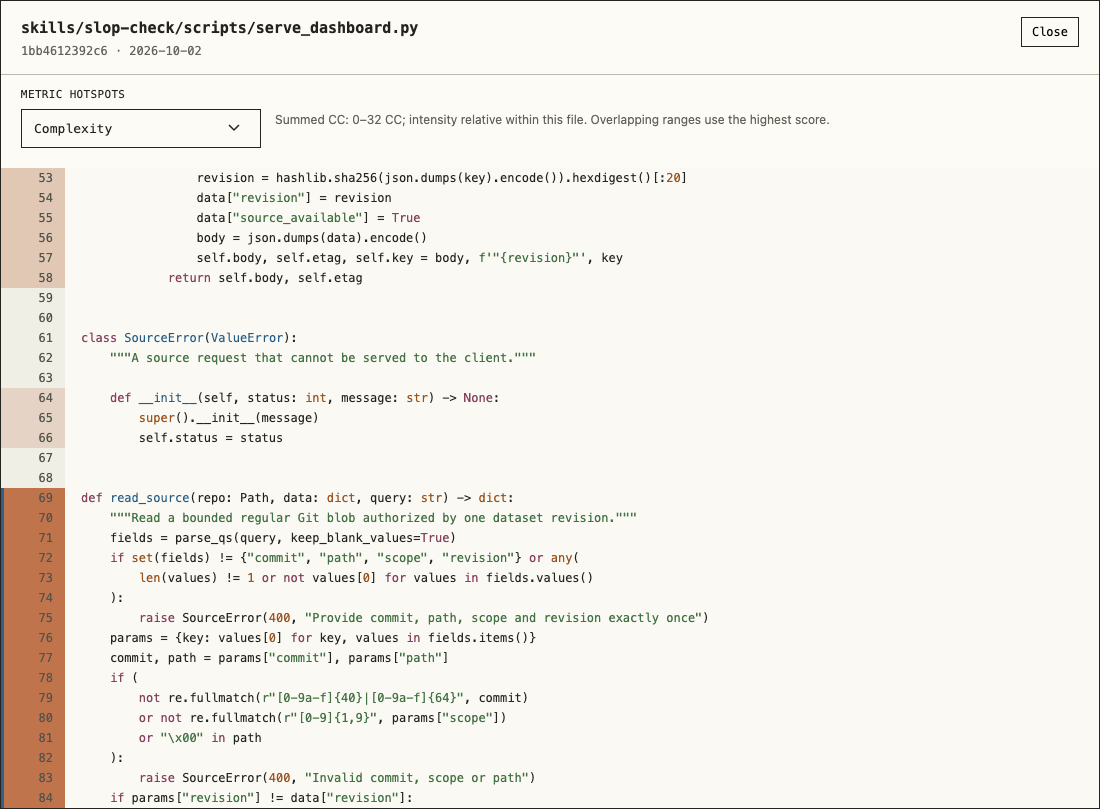
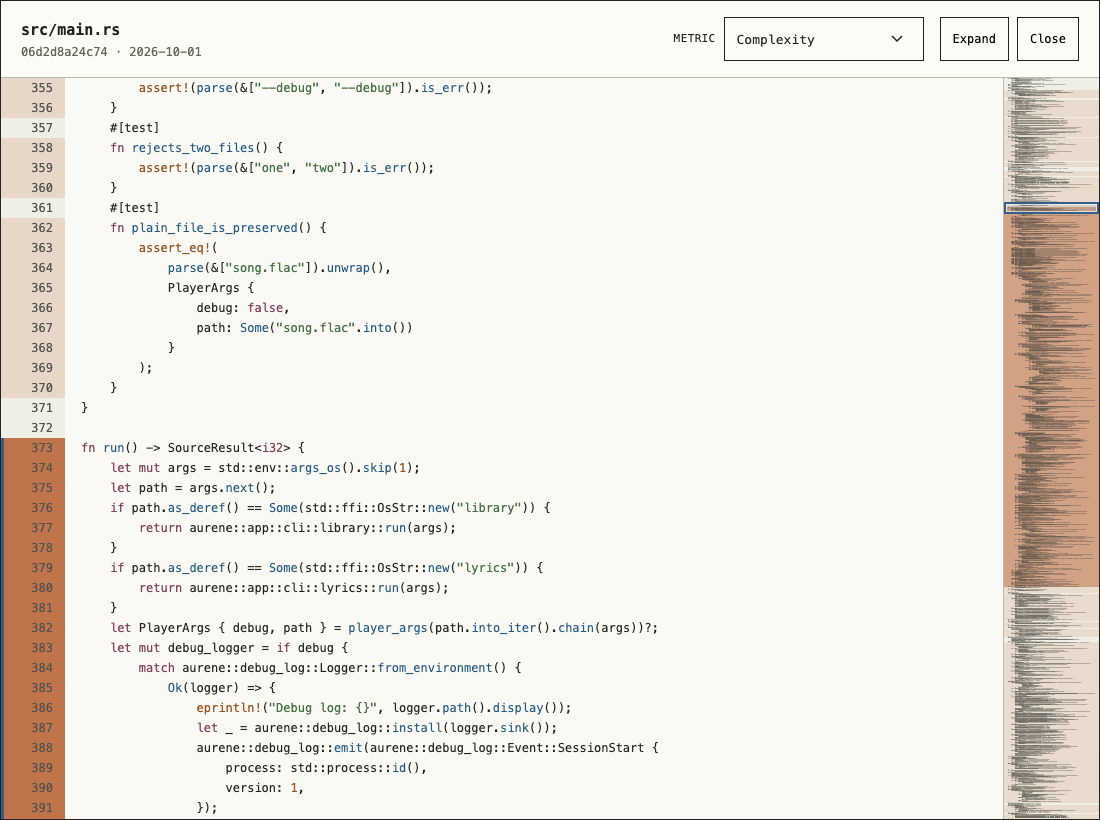
Refresh source viewer screenshot with the minimap

diff --git a/README.md b/README.md
@@ -15,9 +15,10 @@ show the selected commit's code, even when the working tree has changed.
 
 Strata's Python recorder and server measured across two commits.
 
-[![Commit source with syntax highlighting and complexity hotspots](docs/images/source-hotspots.png)](docs/images/source-hotspots.png)
+[![Commit source with syntax highlighting, complexity hotspots, and a minimap](docs/images/source-hotspots.png)](docs/images/source-hotspots.png)
 
-The source window shades function ranges by the selected metric. Exact flagged-line
+The source window shades function ranges by the selected metric. The minimap
+shows hotspots across the file and lets you jump to them. Exact flagged-line
 locations are available for measurements recorded with line details.
 
 ## Setup
